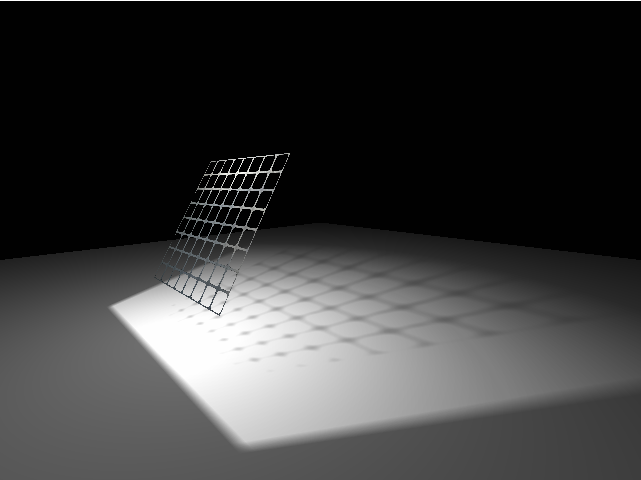
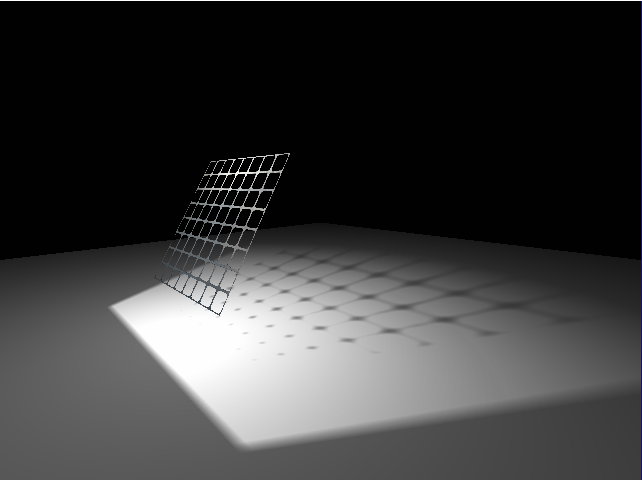
Correct default near clip plane for pseudo spherical lights and re-export images. Fixes [8c889c5a4a1a].

Changed region(s): [[0.9984, 0.0, 1.0, 1.0], [0.2808, 0.3125, 0.4368, 0.5312], [0.2808, 0.5938, 0.3432, 0.6562]]

diff --git a/io7m-r1-examples/src/main/java/com/io7m/r1/examples/scenes/SPSShadowVariance0.java b/io7m-r1-examples/src/main/java/com/io7m/r1/examples/scenes/SPSShadowVariance0.java
@@ -326,6 +326,7 @@ public final class SPSShadowVariance0 implements ExampleSceneType
           {
             gb.groupAddLight(kpwsv);
             scene.visibleShadowsAddCaster(kpwsv, monkey_neg_x);
+            scene.visibleShadowsAddCaster(kpwsv, plane_neg_x);
             return Unit.unit();
           }
         });
@@ -340,6 +341,7 @@ public final class SPSShadowVariance0 implements ExampleSceneType
           {
             gb.groupAddLight(kpwsv);
             scene.visibleShadowsAddCaster(kpwsv, monkey_neg_y);
+            scene.visibleShadowsAddCaster(kpwsv, plane_neg_y);
             return Unit.unit();
           }
         });
@@ -354,6 +356,7 @@ public final class SPSShadowVariance0 implements ExampleSceneType
           {
             gb.groupAddLight(kpwsv);
             scene.visibleShadowsAddCaster(kpwsv, monkey_neg_z);
+            scene.visibleShadowsAddCaster(kpwsv, plane_neg_z);
             return Unit.unit();
           }
         });
@@ -368,6 +371,7 @@ public final class SPSShadowVariance0 implements ExampleSceneType
           {
             gb.groupAddLight(kpwsv);
             scene.visibleShadowsAddCaster(kpwsv, monkey_pos_x);
+            scene.visibleShadowsAddCaster(kpwsv, plane_pos_x);
             return Unit.unit();
           }
         });
@@ -382,6 +386,7 @@ public final class SPSShadowVariance0 implements ExampleSceneType
           {
             gb.groupAddLight(kpwsv);
             scene.visibleShadowsAddCaster(kpwsv, monkey_pos_y);
+            scene.visibleShadowsAddCaster(kpwsv, plane_pos_y);
             return Unit.unit();
           }
         });
@@ -396,6 +401,7 @@ public final class SPSShadowVariance0 implements ExampleSceneType
           {
             gb.groupAddLight(kpwsv);
             scene.visibleShadowsAddCaster(kpwsv, monkey_pos_z);
+            scene.visibleShadowsAddCaster(kpwsv, plane_pos_z);
             return Unit.unit();
           }
         });

diff --git a/io7m-r1-examples/src/main/java/com/io7m/r1/examples/scenes/SPShadowVarianceDepthAlpha0.java b/io7m-r1-examples/src/main/java/com/io7m/r1/examples/scenes/SPShadowVarianceDepthAlpha0.java
@@ -1,10 +1,10 @@
 /*
  * Copyright © 2014 <code@io7m.com> http://io7m.com
- *
+ * 
  * Permission to use, copy, modify, and/or distribute this software for any
  * purpose with or without fee is hereby granted, provided that the above
  * copyright notice and this permission notice appear in all copies.
- *
+ * 
  * THE SOFTWARE IS PROVIDED "AS IS" AND THE AUTHOR DISCLAIMS ALL WARRANTIES
  * WITH REGARD TO THIS SOFTWARE INCLUDING ALL IMPLIED WARRANTIES OF
  * MERCHANTABILITY AND FITNESS. IN NO EVENT SHALL THE AUTHOR BE LIABLE FOR ANY
@@ -178,8 +178,6 @@ public final class SPShadowVarianceDepthAlpha0 implements ExampleSceneType
         KShadowMappedVariance.newBuilder();
       smv_b.setBlurParameters(bp.build());
       smv_b.setMinimumFactor(0.0f);
-      smv_b.setMinimumVariance(0.0001f);
-      smv_b.setLightBleedReduction(0.1f);
       smv_b.setMapDescription(smv_map);
       final KShadowMappedVariance smv = smv_b.build();
 

diff --git a/io7m-r1-kernel-types/src/main/java/com/io7m/r1/kernel/types/KLightSpherePseudoWithShadowVariance.java b/io7m-r1-kernel-types/src/main/java/com/io7m/r1/kernel/types/KLightSpherePseudoWithShadowVariance.java
@@ -45,7 +45,7 @@ import com.io7m.r1.types.RVectorI3F;
      * The default distance to the near clipping plane.
      */
 
-    public static final float           DEFAULT_NEAR_CLIP = 0.0001f;
+    public static final float           DEFAULT_NEAR_CLIP = 0.5f;
 
     private static final float          FOV_BASE;
     private static final QuaternionI4F  NEGATIVE_X_ORIENTATION;
